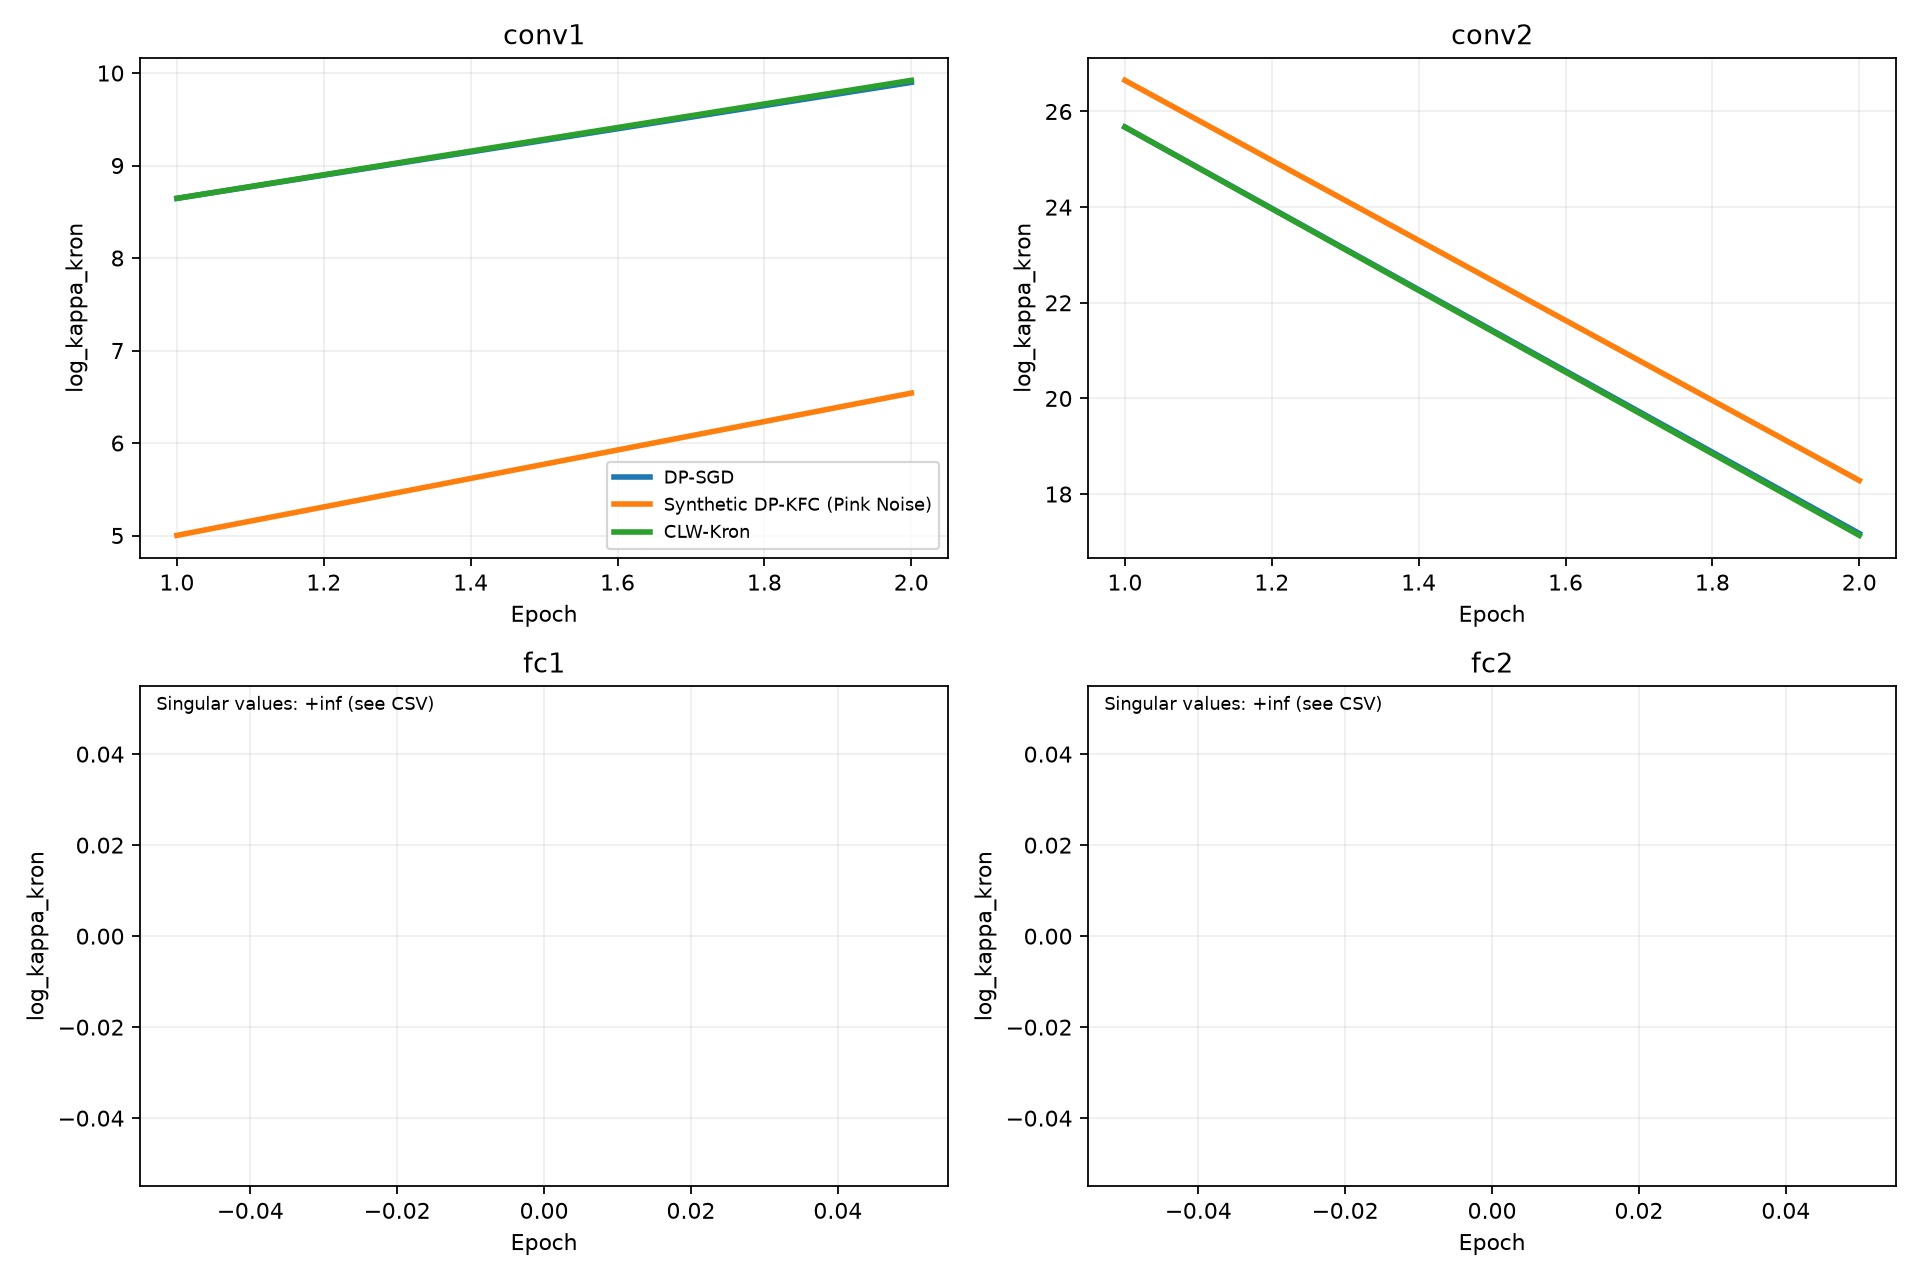
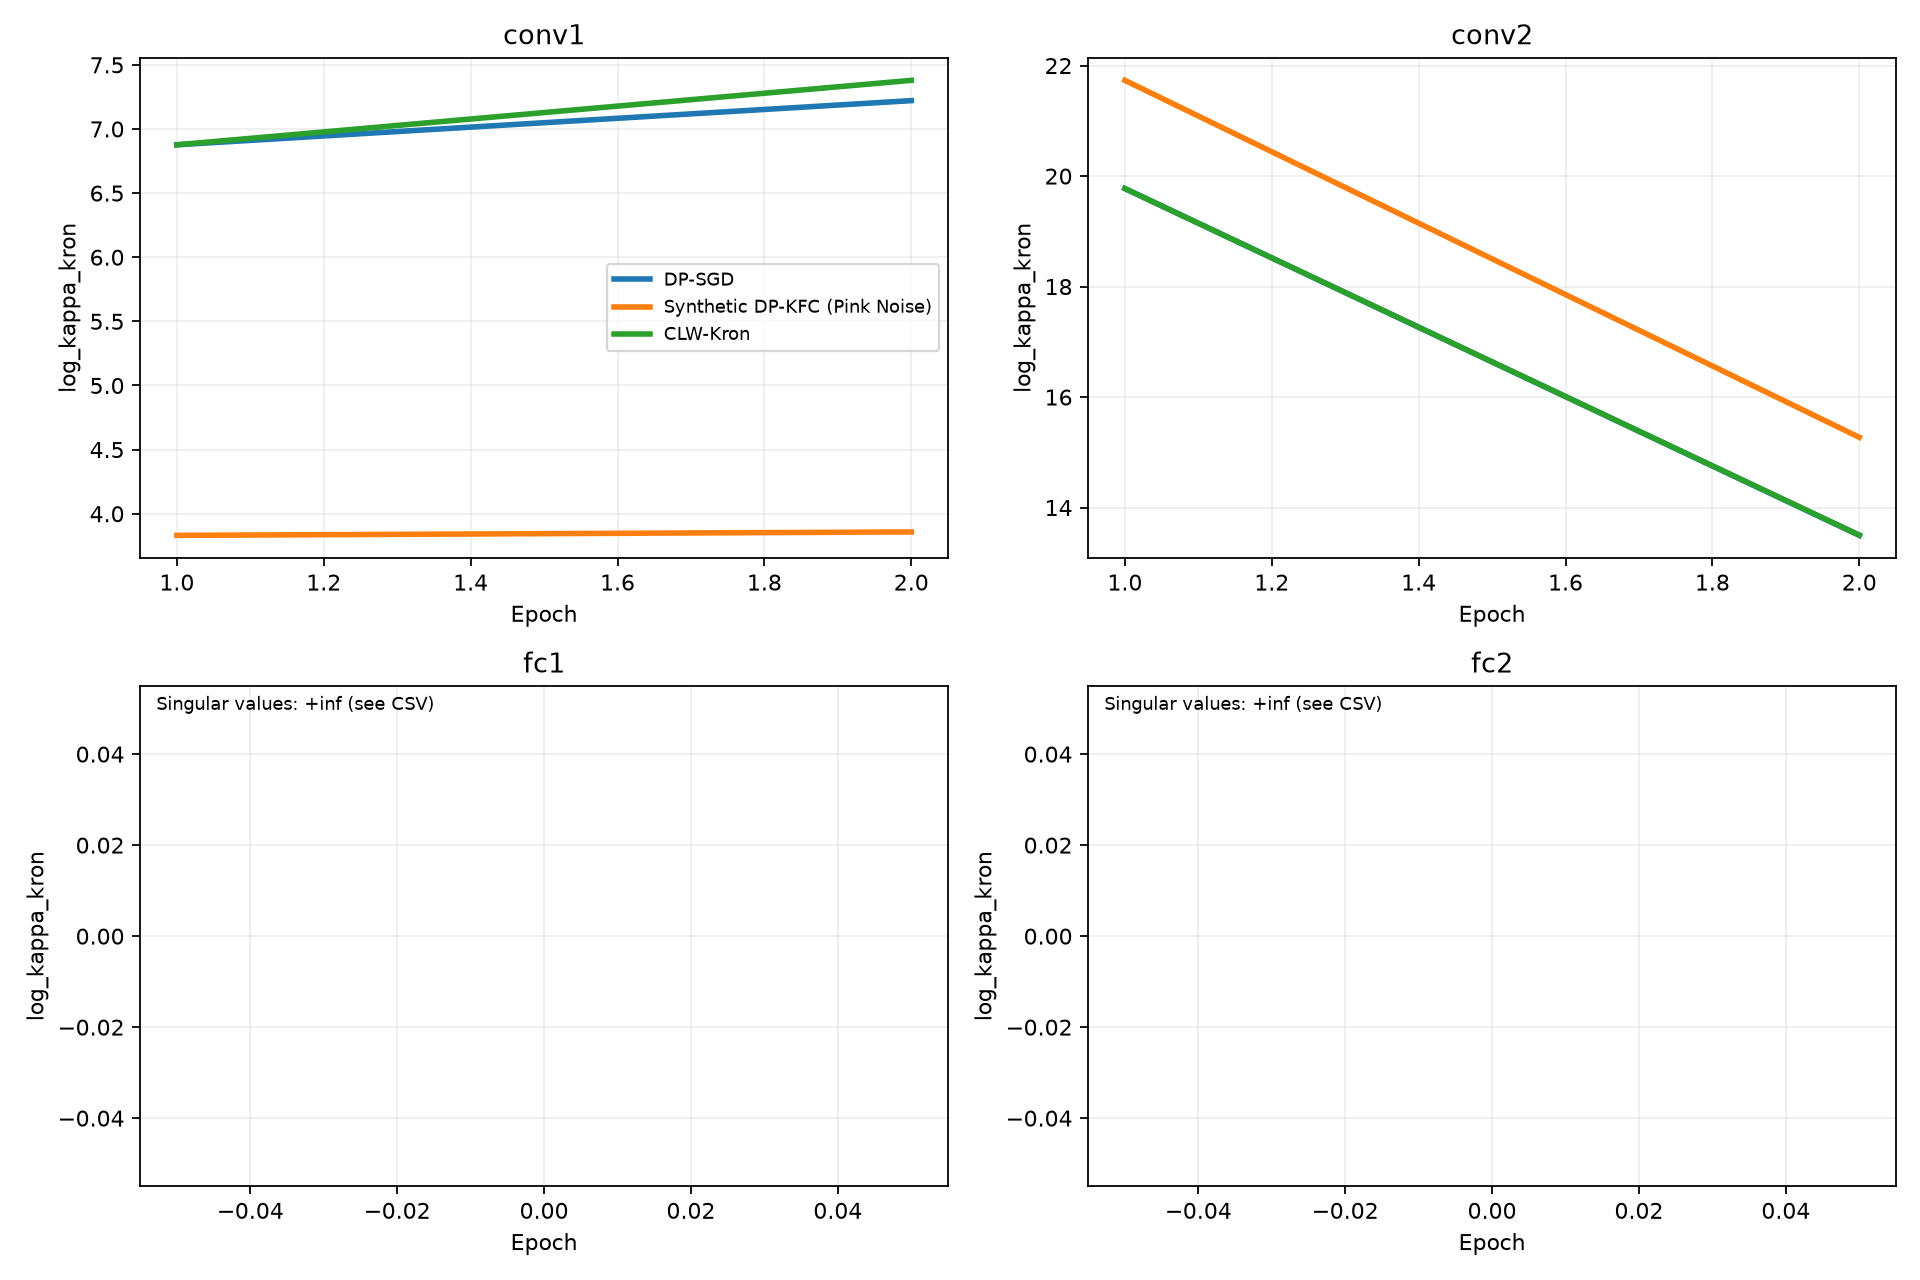
exp1-debug

diff --git a/exp1/run_exp1.py b/exp1/run_exp1.py
@@ -25,7 +25,7 @@ from dp_kfac.privacy import (clip_and_noise_gradients, _compute_per_sample_norms
                              _compute_clip_factors)
 from dp_kfac.optimizer import generate_pink_noise
 from dp_kfac.types import KFACConfig
-from clw_kron import CLWKron, LAYERS, gradient_matrix, identity_factors
+from clw_kron import CLWKron, LAYERS, identity_factors
 
 METHODS = ("DP-SGD", "Synthetic DP-KFC (Pink Noise)", "CLW-Kron")
 
@@ -49,22 +49,36 @@ def oracle(model, loader, a, g, device):
     model.train()
     cg = {k: torch.zeros_like(v, dtype=torch.float64) for k, v in g.items()}
     ca = {k: torch.zeros_like(v, dtype=torch.float64) for k, v in a.items()}
+    recorder = KFACRecorder(model)
+    recorder.enable()
     for x, y in loader:
         model.zero_grad(set_to_none=True)
+        # Sum reduction gives unscaled per-example loss backprops.
         F.cross_entropy(model(x.to(device)), y.to(device), reduction="sum").backward()
-        precondition_per_sample_gradients(model, a, g)
         with torch.no_grad():
+            cov = compute_covariances(
+                model,
+                {k: v.double() for k, v in recorder.activations.items()},
+                {k: v.double() for k, v in recorder.backprops.items()},
+                eps=0.0,  # Oracle factors must not acquire an artificial rank floor.
+            )
             for name in LAYERS:
-                h = gradient_matrix(getattr(model._module, name), True).double()
-                m, n = h.shape[1:]
-                cg[name].add_(torch.einsum("bik,bjk->ij", h, h) / n)
-                ca[name].add_(torch.einsum("bki,bkj->ij", h, h) / m)
+                cg[name].add_(cov.G[name], alpha=len(x))
+                ca[name].add_(cov.A[name], alpha=len(x))
+        recorder.clear()
+    recorder.remove()
     model.zero_grad(set_to_none=True)
     rows = []
     for name in LAYERS:
-        # Sample count cancels under trace normalization.
-        gbar = cg[name] / (cg[name].trace() / cg[name].shape[0])
-        abar = ca[name] / (ca[name].trace() / ca[name].shape[0])
+        # Each layer has the same spatial size across batches; sample weighting
+        # therefore also weights Conv2d patch averages correctly.
+        oracle_a = ca[name] / len(loader.dataset)
+        oracle_g = cg[name] / len(loader.dataset)
+        ua, ug = a[name].double(), g[name].double()
+        transformed_a = ua.T @ oracle_a @ ua
+        transformed_g = ug @ oracle_g @ ug.T
+        gbar = transformed_g / (transformed_g.trace() / transformed_g.shape[0])
+        abar = transformed_a / (transformed_a.trace() / transformed_a.shape[0])
         m, n = gbar.shape[0], abar.shape[0]
         logs = []
         for c in (gbar, abar):
@@ -190,7 +204,7 @@ def main():
     transform = transforms.Compose([transforms.ToTensor(), transforms.Normalize((0.1307,), (0.3081,))])
     train = datasets.MNIST(ROOT / "exp1/data", train=True, download=True, transform=transform)
     test = datasets.MNIST(ROOT / "exp1/data", train=False, download=True, transform=transform)
-    diagnostic = Subset(train, range(1024))
+    diagnostic = Subset(train, range(2048))
     epochs, batch_size, seeds = 5, 256, (42, 7)
     output = ROOT / "exp1/results"
     if args.smoke:
